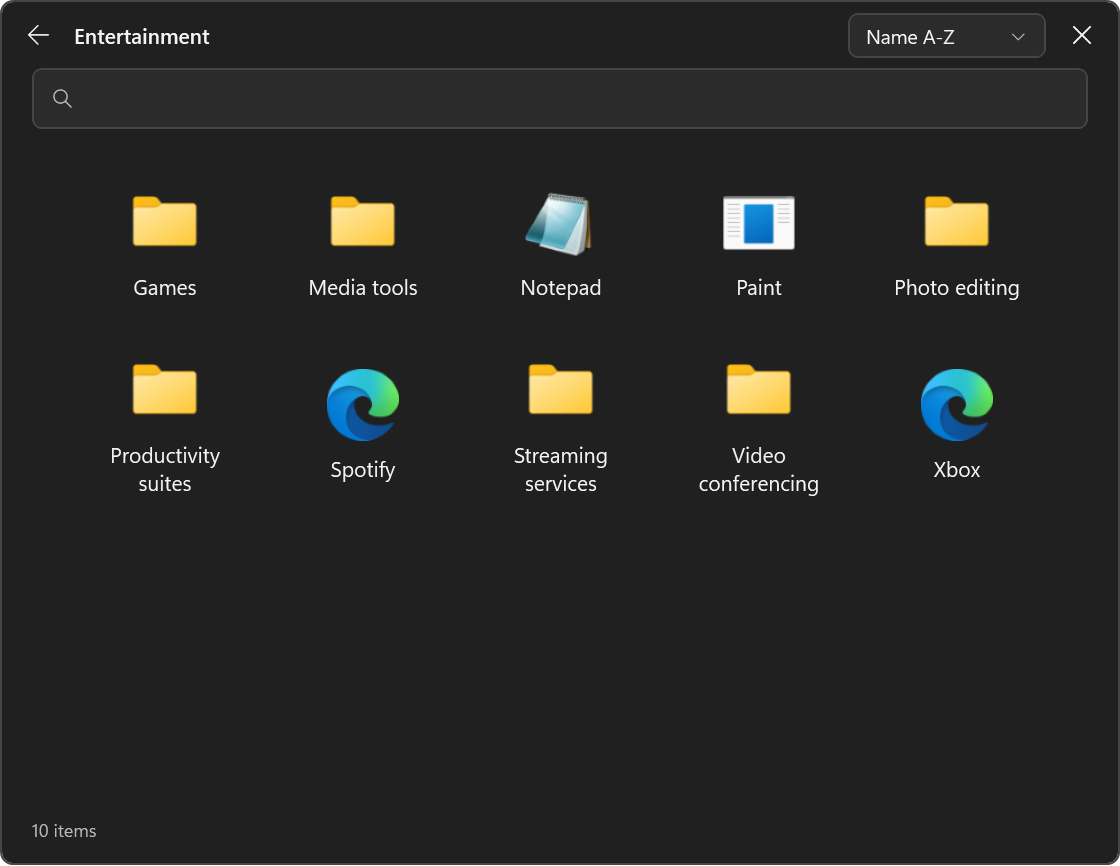
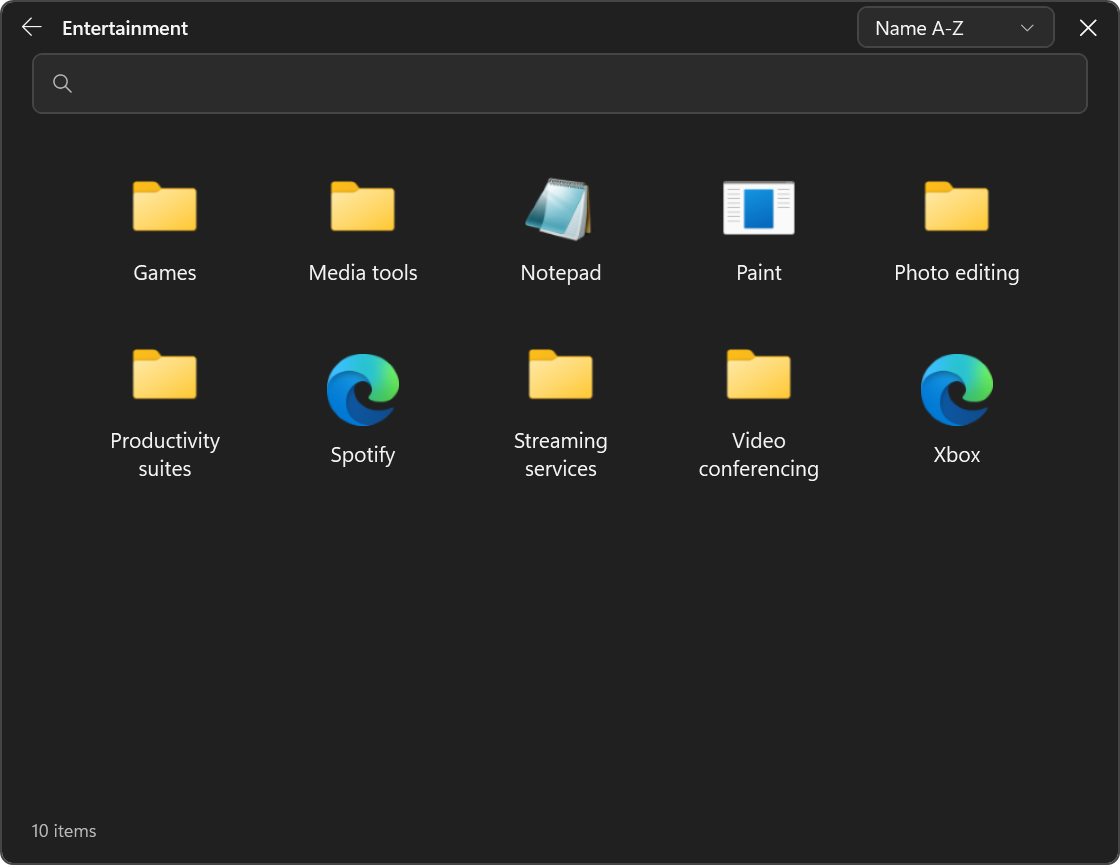
refactor(launcher): shrink the header to a single title-bar line
Move the active description onto the title line and drop the separate description row, so the chrome above the tab strip is one ~34px line instead of two stacked rows.

The capture pixel-diversity guard sampled a 25x20 grid and fell to 7 colors once the chrome shrank. It now samples 60x48 and requires 20 (TabbedList) and 30 (Grid) colors; the current frames report 43 and 124.

diff --git a/.memory-bank/progress.md b/.memory-bank/progress.md
@@ -143,16 +143,18 @@ release remains gated by external environment evidence.
   selected `-Command` cannot use instead of discarding it silently, which is
   what made `-Path` look like it relocated the menu. Full suite green: 167
   passed, 0 failed.- 2026-07-29: Replaced the tall Launcher header with a single compact line
-  holding Back, the title, and Close, moved the `TabbedList` description to its
-  own slim line above the tab strip, and dropped the breadcrumb line in favor of
-  a title tooltip. The header is now the drag handle: pressing it calls
+  holding Back, the title, the active description, and Close, and dropped the
+  breadcrumb line in favor of a title tooltip. The header is now the drag
+  handle: pressing it calls
   `DragMove`, and `ContentRendered` restores a remembered `Window.Left`/`Top`
   clamped to the virtual screen instead of always reopening near the Start
   button. `CR-006` already required storing those coordinates; the Launcher had
   never read them back. Verified end to end by seeding a preference at 200,150,
   opening the Launcher, and reading 200,150 back from the preference file on
-  close. Both layout captures regenerated; full suite green: 173 passed,
-  0 failed, 1 skipped.- 2026-07-29: Changed `TabbedList` tab selection so the tab strip survives a
+  close. The capture tool's pixel-diversity guard was sampling on a 25x20 grid
+  and dropped to 7 colors once the chrome shrank, so it now samples 60x48 and
+  requires 20 (`TabbedList`) and 30 (`Grid`) colors, which the current frames
+  clear at 43 and 124.- 2026-07-29: Changed `TabbedList` tab selection so the tab strip survives a
   click. Selecting a tab previously navigated into it, which rebuilt the strip
   from that folder's children and hid every sibling. The Launcher now tracks a
   tab-strip owner and a selected tab separately: `SelectTab` highlights a tab

diff --git a/docs/design-concept.md b/docs/design-concept.md
@@ -48,7 +48,8 @@ supported DPI settings, and right-click has no effect inside the WPF window.
   compact single-line header that also acts as the drag handle.
 - Use the tabbed list as the default Launcher layout and allow machine
   configuration to select the responsive grid. In the tabbed list layout,
-  Menu Folders are tabs, the active description appears above the tabs, and
+  Menu Folders are tabs, the active description appears in the header above the
+  tabs, and
   Launch Items appear as compact rows. Selecting a tab keeps the whole tab
   strip visible and highlights the selected tab; a Menu Folder below the
   selected tab appears as a row that moves the tab strip one level deeper.
@@ -187,7 +188,8 @@ reconciled transactionally.
 
 The Launcher provides two Windows-inspired layouts selected by machine
 configuration. `TabbedList` is the default and presents the current Menu Folder
-and its child Menu Folders as tabs, shows the active description above the tab
+and its child Menu Folders as tabs, shows the active description in the header
+above the tab
 strip, and presents Launch Items as compact rows. `Grid` presents Menu Folders
 and Launch Items together in a responsive grid using stable item dimensions.
 Both layouts use the selected name order. Menu Folder activation replaces

diff --git a/docs/specifications/functional-requirements.md b/docs/specifications/functional-requirements.md
@@ -82,12 +82,14 @@ sessions for one account, must have independent Launcher processes.
 
 Activating a Menu Folder must replace the visible content in the same window.
 The Back control must restore parent context. The window header must be one
-compact line holding the Back control, the current Entry Root title, and the
-Close control; the title must expose the current path as its tooltip. A Menu
-Folder whose subtree contains no Launch Item must not be displayed.
+compact line holding the Back control, the current Entry Root title, the
+selected description, and the Close control; the title must expose the current
+path as its tooltip. A Menu Folder whose subtree contains no Launch Item must
+not be displayed.
 `TabbedList` is the
 default Launcher layout: the owning Menu Folder and its child Menu Folders
-must be tabs, the selected tab's description must appear above the tabs, and
+must be tabs, the selected tab's description must appear in the header above
+the tabs, and
 the selected tab's Launch Items must appear as compact list rows. The owning
 Menu Folder must keep its own tab only while it holds a Launch Item directly
 or no child Menu Folder tab can replace it; when that tab is hidden, the first

diff --git a/.memory-bank/activeContext.md b/.memory-bank/activeContext.md
@@ -47,9 +47,9 @@ while preserving the approved behavior and security boundaries.
 - `CR-013` lets a caller relocate the menu for one invocation through
     `ManagedRoot` and `PersonalRoot` parameters on the read commands, while
     persistent relocation still belongs in the machine configuration.
-- The Launcher header is one compact line (Back, title, Close) that doubles as
-  the window drag handle; the current path is the title tooltip and the
-  `TabbedList` description sits on its own line above the tab strip.
+- The Launcher header is one compact line (Back, title, active description,
+  Close) that doubles as the window drag handle; the current path is the title
+  tooltip and the full description is the description tooltip.
 - A dragged window position is remembered and restored on the next activation,
   clamped to the virtual screen; only a first run without stored coordinates
   opens near the Start button.

diff --git a/CHANGELOG.md b/CHANGELOG.md
@@ -51,9 +51,8 @@ and this project adheres to [Semantic Versioning](https://semver.org/spec/v2.0.0
 ### Changed
 
 - Reduce the Launcher header to a single compact line holding Back, the title,
-  and Close; the breadcrumb line is gone and the current path is now the title
-  tooltip, and the active `TabbedList` description moved to its own slim line
-  above the tab strip
+  the active description, and Close; the breadcrumb and the separate description
+  line are gone, and the current path is now the title tooltip
 - Hide the `TabbedList` tab of the Entry Root or Menu Folder that the tab strip
   belongs to while it holds no Launch Item of its own, and select its first
   child Menu Folder tab instead, so opening a folder that only groups

diff --git a/.memory-bank/techContext.md b/.memory-bank/techContext.md
@@ -43,7 +43,7 @@ source: repository evidence
   with one intentional host-dependent skip.
 - Recursive PSScriptAnalyzer: zero production-source findings.
 - `tools/New-LauncherScreenshot.ps1`: nonblank default `TabbedList` frame at
-  `1001x1060` with 12 sampled colors and `Grid` frame at `1120x866` with 15
+  `1001x1060` with 43 sampled colors and `Grid` frame at `1120x866` with 124
   sampled colors; the tool rejects stale builds and wrong layout aspect ratios.
 - `tools/Test-OfflineLifecycle.ps1`: copied module version `0.2.0`, health
   `Healthy`, WPF capture, successful removal, and zero runtime dependencies.
